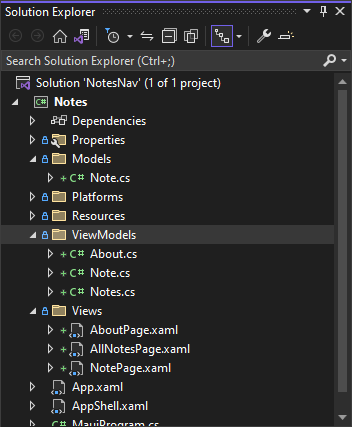
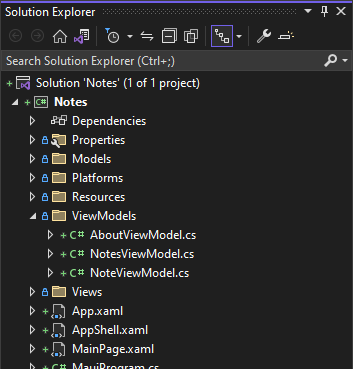
more tweaks

Changed region(s): [[0.0, 0.0, 1.0, 1.0]]

diff --git a/docs/tutorials/notes-mvvm/includes/viewmodel-about.md b/docs/tutorials/notes-mvvm/includes/viewmodel-about.md
@@ -22,15 +22,16 @@ Now you're ready to start updating the project by adding view models.
 
 The view-to-viewmodel relationship relies heavily on the binding system provided by .NET MAUI. The app is already using binding in the views to display a list of notes and to present the text and date of a single note. The app logic is currently provided by the view's code-behind and is directly tied to the view. For example, when a user is editing a note and presses the **Save** button, the `Clicked` event for the button is raised. Then, the code-behind for the event handler saves the note text to a file and navigates to the previous screen.
 
-Having app logic in the code-behind of a view can become an issue when the view changes. For example if the button is replaced with a different input control, or the name of a control is changed, event handlers may become invalid. Regardless of how the view is designed, the purpose of the view is to invoke some sort of app logic and to present information to the user. For this app, it's saving the note and then navigating back to the previous screen.
+Having app logic in the code-behind of a view can become an issue when the view changes. For example if the button is replaced with a different input control, or the name of a control is changed, event handlers may become invalid. Regardless of how the view is designed, the purpose of the view is to invoke some sort of app logic and to present information to the user. For this app, the `Save` button is saving the note and then navigating back to the previous screen.
 
-The viewmodel gives the app a specific place to code the app logic regardless of how the UI is designed, and regardless of how the data is being loaded or saved. The viewmodel is the glue that represents and interacts with the data model on behalf of the view.
+The viewmodel gives the app a specific place to put the app logic regardless of how the UI is designed or how the data is being loaded or saved. The viewmodel is the glue that represents and interacts with the data model on behalf of the view.
 
 The view models are stored in a _ViewModels_ folder.
 
 01. Find the **Solution Explorer** pane of Visual Studio.
 01. Right-click on the **Notes** project and select **Add** > **New Folder**. Name the folder **ViewModels**.
 01. Right-click on the **ViewModels** folder > **Add** > **Class** and name it **AboutViewModel.cs**.
+01. Repeat the previous step and create two more view models:
     - **NoteViewModel.cs**
     - **NotesViewModel.cs**
 
@@ -44,7 +45,7 @@ The **About view** displays some data on the screen and optionally navigates to 
 
 Create the **About viewmodel**:
 
-01. In the **Solution Explorer** pane of Visual Studio, double-click on **ViewModels\\About.cs**.
+01. In the **Solution Explorer** pane of Visual Studio, double-click on **ViewModels\\AboutViewModel.cs**.
 01. Paste in the following code:
 
     :::code language="csharp" source="../snippets/viewmodel-shared/csharp/Notes/ViewModels/AboutViewModel.cs":::
@@ -55,11 +56,13 @@ Commands are bindable actions that invoke code, and are a great place to put app
 
 ### About view
 
-The **About view** needs to be changed slightly to hook it up to the viewmodel that was created in the previous section. Modify the _Views\\AboutPage.xaml_ file:
+The **About view** needs to be changed slightly to hook it up to the viewmodel that was created in the previous section. In the _Views\\AboutPage.xaml_ file,  file, apply the following changes:
 
 - Update the `xmlns:models` XML namespace to `xmlns:viewModels` and target the `Notes.ViewModels` .NET namespace.
 - Change the `ContentPage.BindingContext` property to a new instance of the `About` viewmodel.
 - Remove the button's `Clicked` event handler and use the `Command` property.
+
+Update the **About view**:
 
 01. In the **Solution Explorer** pane of Visual Studio, double-click on **Views\\AboutPage.xaml**.
 01. Paste in the following code:
@@ -68,7 +71,7 @@ The **About view** needs to be changed slightly to hook it up to the viewmodel t
 
     The previous code snippet highlights the lines that have changed in this version of the view.
 
-Notice that the button is using the `Command` property. Many controls support a `Command` property that is invoked when the user interacts with the control. When used with a button, the command is invoked when a user presses the button, similar to how the `Clicked` event handler is invoked, except that you can bind `Command` to the viewmodel.
+Notice that the button is using the `Command` property. Many controls have a `Command` property that is invoked when the user interacts with the control. When used with a button, the command is invoked when a user presses the button, similar to how the `Clicked` event handler is invoked, except that you can bind `Command` to the viewmodel.
 
 In this view, when the user presses the button, the `Command` is invoked. The `Command` is bound to the `ShowMoreInfoCommand` property in the viewmodel, and when invoked, runs the code in the `ShowMoreInfo` method, which opens the web browser to a specific page.
 
@@ -76,4 +79,11 @@ In this view, when the user presses the button, the `Command` is invoked. The `C
 
 The `ShowMoreInfo` button isn't using the event handler, so the `LearnMore_Clicked` code should be removed from the _Views\\AboutPage.xaml.cs_ file. Delete that code. The class should only contain the constructor:
 
-:::code language="csharp" source="../snippets/viewmodel-shared/csharp/Notes/Views/AboutPage.xaml.cs":::
+01. In the **Solution Explorer** pane of Visual Studio, double-click on **Views\\AboutPage.xaml.cs**.
+
+    > [!TIP]
+    > You may need to expand the **Views\\AboutPage.xaml** to show the file.
+
+01. Replace the code with the following snippet:
+
+    :::code language="csharp" source="../snippets/viewmodel-shared/csharp/Notes/Views/AboutPage.xaml.cs":::

diff --git a/docs/tutorials/notes-mvvm/includes/model.md b/docs/tutorials/notes-mvvm/includes/model.md
@@ -7,7 +7,7 @@ ms.topic: include
 
 In this first part of the tutorial, you'll implement the model-view-viewmodel (MVVM) pattern. This pattern decouples the model (data) from the view (presentation) into a layer called the view model. The role of the view model in MVVM is to transform the model into a format that the view can use. This separation is beneficial when creating complex apps, it allows you to change how the data is presented without being concerned with where the data is coming from or what format the data is in.
 
-To start modifying the app, open the _Notes.csproj_ project in Visual Studio. You may have a _Notes.sln_ solution file, you can open that instead.
+To start, open the _Notes.csproj_ project in Visual Studio. You may have a _Notes.sln_ solution file, you can open that instead.
 
 ## Clean up the model
 
@@ -69,7 +69,7 @@ The `Note` model is going to be expanded to handle loading, saving, and deleting
 
     :::code language="csharp" source="../snippets/model/csharp/Notes/Models/Note.cs" id="load_all":::
 
-    This code returns an enumerable collection of `Note` model types by retrieving the files on the device that match the notes file pattern: _*.notes.txt_. Each file name is passed to the `Load` method that loads a single note. Finally, the collection of notes is ordered by the date of each note and returned to the caller.
+    This code returns an enumerable collection of `Note` model types by retrieving the files on the device that match the notes file pattern: _*.notes.txt_. Each file name is passed to the `Load` method, loading an individual note. Finally, the collection of notes is ordered by the date of each note and returned to the caller.
 
 01. Lastly, add a constructor to the class which sets the default values for the properties, including a random file name:
 

diff --git a/docs/tutorials/notes-mvvm/includes/viewmodel-notes.md b/docs/tutorials/notes-mvvm/includes/viewmodel-notes.md
@@ -75,7 +75,7 @@ Now that the viewmodel has been created, update the **AllNotes view** to point t
 - Remove the toolbar button's `Clicked` event and use the `Command` property.
 - Change the `CollectionView` to use commanding to react to when the selected item changes.
 
-Create the **AllNotes view**:
+Update the **AllNotes view**:
 
 01. In the **Solution Explorer** pane of Visual Studio, double-click on **Views\\AllNotesPage.xaml**.
 01. Paste in the following code:
@@ -92,7 +92,14 @@ The toolbar no longer uses the `Clicked` event and instead uses a command.
 
 Now that the interaction with the view has changed from event handlers to commands, open the _Views\\AllNotesPage.xaml.cs_ file and replace all the code with the following snippet:
 
-:::code language="csharp" source="../snippets/viewmodel-shared/csharp/Notes/Views/AllNotesPage.xaml.cs":::
+01. In the **Solution Explorer** pane of Visual Studio, double-click on **Views\\AllNotesPage.xaml.cs**.
+
+    > [!TIP]
+    > You may need to expand the **Views\\AllNotesPage.xaml** to show the file.
+
+01. Replace the code with the following snippet:
+
+    :::code language="csharp" source="../snippets/viewmodel-shared/csharp/Notes/Views/AllNotesPage.xaml.cs":::
 
 ## Run the app
 

diff --git a/docs/tutorials/notes-mvvm/includes/upgrade.md b/docs/tutorials/notes-mvvm/includes/upgrade.md
@@ -13,16 +13,16 @@ To upgrade your app to .NET 7:
 01. Find the `Project/PropertyGroup/TargetFrameworks` element and change it to the following:
 
     ```xml
-    <TargetFrameworks>net6.0-android;net6.0-ios;net6.0-maccatalyst</TargetFrameworks>
+    <TargetFrameworks>net7.0-android;net7.0-ios;net7.0-maccatalyst</TargetFrameworks>
     ```
 
 01. Find the `Project/PropertyGroup/TargetFrameworks` element with a `condition` specifying Windows, and change it to the following:
 
     ```xml
-    <TargetFrameworks Condition="$([MSBuild]::IsOSPlatform('windows'))">$(TargetFrameworks);net6.0-windows10.0.19041.0</TargetFrameworks>
+    <TargetFrameworks Condition="$([MSBuild]::IsOSPlatform('windows'))">$(TargetFrameworks);net7.0-windows10.0.19041.0</TargetFrameworks>
     ```
 
-01. Update the minimum operating system versions required for iOS and Mac. Replace the two `SupportedOSPlatformVersion` elements with the following:
+01. Change the minimum operating system versions required for iOS and Mac. Replace the two `SupportedOSPlatformVersion` elements with the following:
 
     ```xml
     <SupportedOSPlatformVersion Condition="$([MSBuild]::GetTargetPlatformIdentifier('$(TargetFramework)')) == 'ios'">11.0</SupportedOSPlatformVersion>

diff --git a/docs/tutorials/notes-mvvm/includes/viewmodel-note.md b/docs/tutorials/notes-mvvm/includes/viewmodel-note.md
@@ -93,7 +93,7 @@ Now that the viewmodel has been created, update the **Note view**. In the _Views
 - Add a `BindingContext` to the page.
 - Remove the delete and save button `Clicked` event handlers and replace them with commands.
 
-Create the **Note view**:
+Update the **Note view**:
 
 01. In the **Solution Explorer** pane of Visual Studio, double-click on **Views\\NotePage.xaml** to open the XAML editor.
 01. Paste in the following code:
@@ -110,4 +110,11 @@ Previously, this view didn't declare a binding context, as it was supplied by th
 
 Now that the interaction with the view has changed from event handlers to commands, open the _Views\\NotePage.xaml.cs_ file and replace all the code with the following snippet:
 
-:::code language="csharp" source="../snippets/viewmodel-shared/csharp/Notes/Views/NotePage.xaml.cs":::
+01. In the **Solution Explorer** pane of Visual Studio, double-click on **Views\\NotePage.xaml.cs**.
+
+    > [!TIP]
+    > You may need to expand the **Views\\NotePage.xaml** to show the file.
+
+01. Replace the code with the following snippet:
+
+    :::code language="csharp" source="../snippets/viewmodel-shared/csharp/Notes/Views/NotePage.xaml.cs":::

diff --git a/docs/tutorials/notes-mvvm/includes/intro.md b/docs/tutorials/notes-mvvm/includes/intro.md
@@ -5,10 +5,12 @@ ms.date: 12/12/2022
 ms.topic: include
 ---
 
-This tutorial series is designed to continue the [previous tutorial](../../notes-app/index.yml) that created a note taking app. In this part of the series you'll learn how to:
+This tutorial series is designed to continue the [Create a .NET MAUI app](../../notes-app/index.yml) tutorial, which created a note taking app. In this part of the series you'll learn how to:
 
 > [!div class="checklist"]
 >
 > - Upgrade your app to .NET 7 if it's currently .NET 6
 > - Implement the model-view-viewmodel (MVVM) pattern
-> - User a different style of query string for passing data during navigation
+> - Use an additional style of query string for passing data during navigation
+
+If you don't have access to the app's source code created in the [Create a .NET MAUI app](../../notes-app/index.yml) tutorial, you can download it [here_TODO]().
